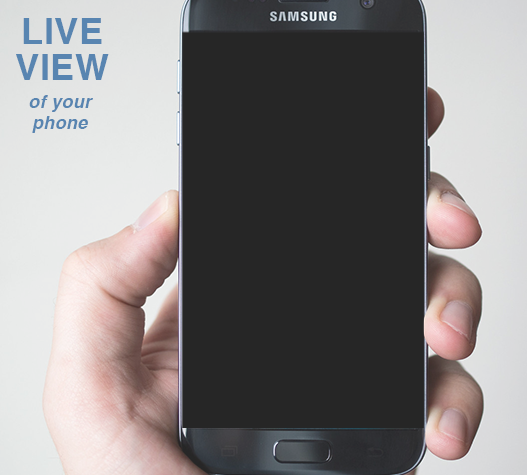
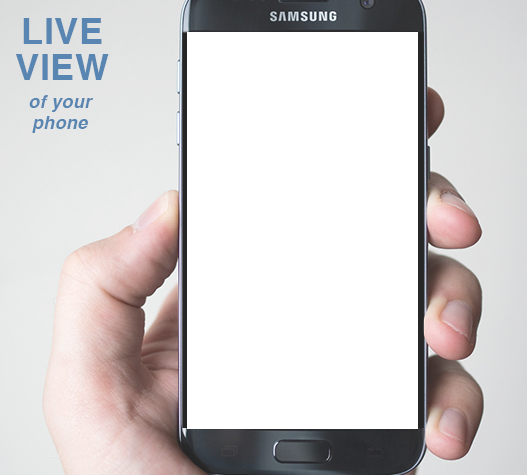
remove background colors for live view

diff --git a/src/com/prototype/helpkiosk/ui/LiveView.java b/src/com/prototype/helpkiosk/ui/LiveView.java
@@ -41,12 +41,6 @@ class LiveView extends JPanel implements ActionListener {
 
 	LiveView (IDevice device) {
 		setLayout(new FlowLayout());
-		setBackground(Color.WHITE);
-		// TODO
-		//setOpaque(true);
-		setOpaque(false);
-		
-
 		this.width = 240;
 		this.height = 400;
 
@@ -56,6 +50,7 @@ class LiveView extends JPanel implements ActionListener {
 
 		// TODO remove live view panel here
 		JPanel panel = buildViewerAndControls();
+		panel.setOpaque(false);
 		add(panel);
 
 		SwingUtilities.invokeLater(new Runnable() {
@@ -70,7 +65,7 @@ class LiveView extends JPanel implements ActionListener {
 		JPanel panel = new JPanel();
 
 		Crosshair viewPanel = new Crosshair(new ScreenshotViewer());
-		viewPanel.setBackground(Color.WHITE);
+		//viewPanel.setBackground(Color.WHITE);
 		//viewPanel.setBorder(BorderFactory.createLineBorder(Color.BLACK, 1));
 		//viewPanel.setBounds(0, 0, width, height);
 		viewPanel.setOpaque(false);
@@ -80,10 +75,12 @@ class LiveView extends JPanel implements ActionListener {
 		title.setForeground(new Color(0x3B70A3));
 		
 		ImageIcon img = new ImageIcon("img/nexusoneinhandcroppedlight.png");
-		//JLabel bg = new JLabel(img);
-		JPanel bg = new JPanel();
+		JLabel bg = new JLabel(img);
+		// TODO
+		//JPanel bg = new JPanel();
+		bg.setOpaque(false);
 		bg.setLayout(new BoxLayout(bg, BoxLayout.Y_AXIS));
-		bg.setPreferredSize(new Dimension(width, height));
+		//bg.setPreferredSize(new Dimension(width, height));
 		//bg.setBackground(Color.WHITE);
 		// TODO
 		bg.setOpaque(false);
@@ -120,8 +117,9 @@ class LiveView extends JPanel implements ActionListener {
 		// TODO
 //		bg.add(filler);
 //		bg.add(rigid4);
-		
 		bg.add(viewPanel);
+		bg.add(title);
+		
 		panel.add(bg);
 		return panel;
 	}
@@ -137,17 +135,14 @@ class LiveView extends JPanel implements ActionListener {
 	public void actionPerformed(ActionEvent event) {
 		// if no current task, start a new GetScreenshot task
 		if ((this.task != null) && (!this.task.isDone())) {
-//			System.out.println("Existing task, no new one");
 			return;
 		}
-		//System.out.println("New screenshot task created!");
 		this.task = new GetScreenshotTask();
 		this.task.execute();
 	}
 
 	private class GetScreenshotTask extends SwingWorker<Boolean, Void> {
 		// SwingWorkers are essentially new threads, creating a new one adds a new task to a free worker thread
-		
 		private GetScreenshotTask() {
 			
 		}
@@ -212,12 +207,7 @@ class LiveView extends JPanel implements ActionListener {
 	class ScreenshotViewer extends JComponent {
 
 		ScreenshotViewer() {
-			//TODO
-			//setOpaque(true);
-			setOpaque(false);
-
 			setBounds(0,0,width,height);
-
 			setLayout(new BoxLayout(this, BoxLayout.Y_AXIS));
 			
 			// For highlighting the live view?

diff --git a/src/com/prototype/helpkiosk/ui/Workspace.java b/src/com/prototype/helpkiosk/ui/Workspace.java
@@ -65,11 +65,13 @@ public class Workspace extends JFrame implements WindowListener {
 	private JComponent buildMainPanel(){
 		
 		this.mainPanel = new JPanel();
-		this.mainPanel.setBackground(Color.WHITE);
 		this.mainPanel.setLayout(new BoxLayout(mainPanel, BoxLayout.X_AXIS));
-		//this.mainPanel.setPreferredSize(new Dimension(default_width, default_height));
-		mainPanel.setPreferredSize(new Dimension(this.default_width * this.rightPanel_width_percent/100
-				, this.default_height));
+		// TODO
+		//this.mainPanel.setBackground(Color.WHITE);
+		this.mainPanel.setPreferredSize(new Dimension(default_width, default_height));
+//		mainPanel.setPreferredSize(new Dimension(this.default_width * this.rightPanel_width_percent/100
+//				, this.default_height));
+
 		// disable left or right panel here
 		mainPanel.add(createRightPanel());
 		mainPanel.add(createLeftPanel());
@@ -116,14 +118,10 @@ public class Workspace extends JFrame implements WindowListener {
 		demoPanel.setLayout(new BoxLayout(demoPanel, BoxLayout.X_AXIS));
 		
 		demoPanel.add(Box.createRigidArea(new Dimension(10, 10 + 100)));
-		// TODO
-		demoPanel.setOpaque(false);
 
 		JPanel titleFiller = new JPanel();
 		titleFiller.setLayout(new BorderLayout());
 		titleFiller.setBackground(Color.WHITE);
-		// TODO
-		titleFiller.setOpaque(false);
 		
 		JLabel title = new JLabel("<html><br>DEMO<br>VIDEO</html>");
 		title.setFont(new Font("Arial", Font.BOLD, 32));
